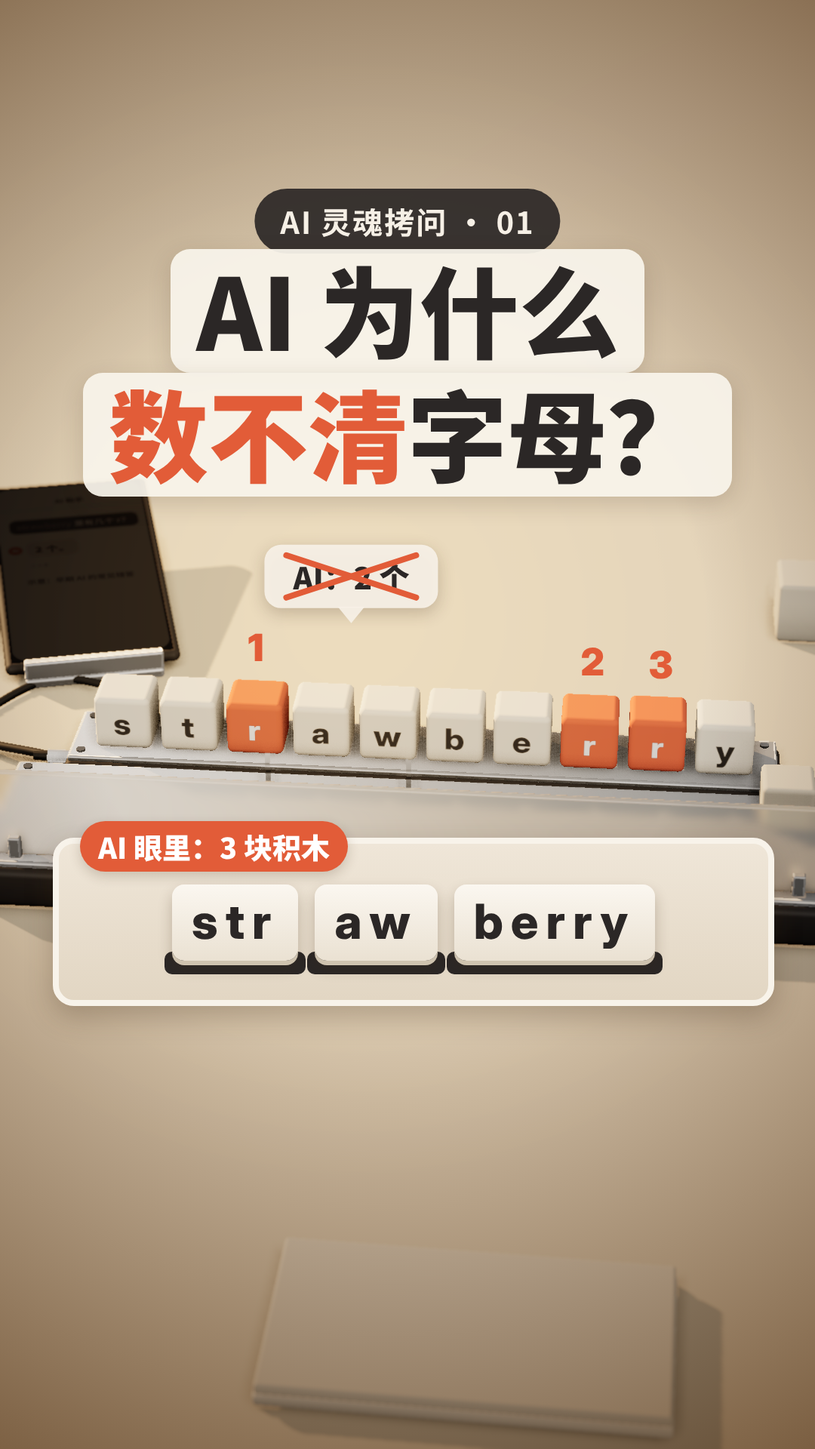
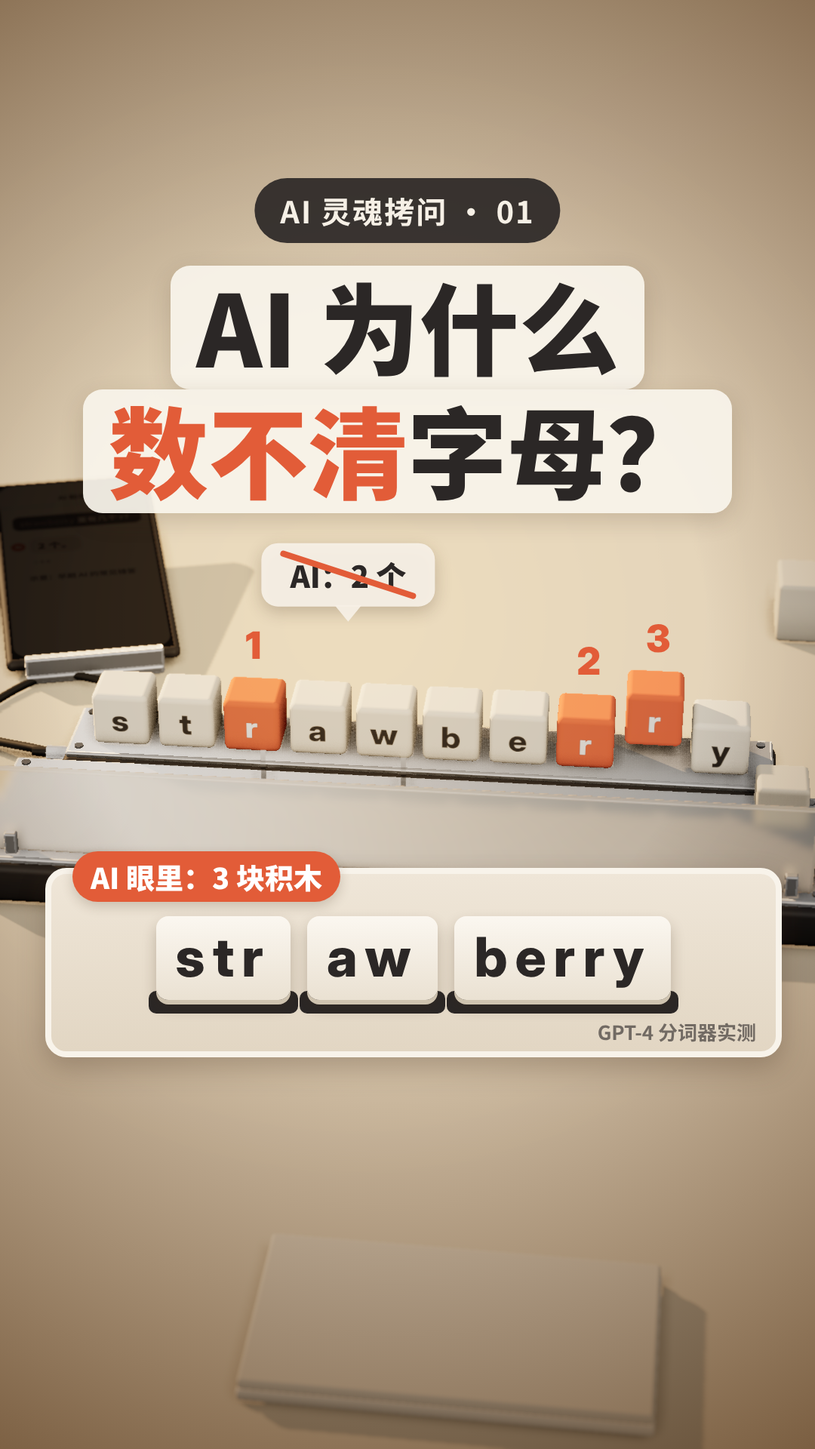
EP.01 节点③审核修改：publish.md（搜索词覆盖、AI 生成说明、英文句子、封面描述、置顶评论、去 #ChatGPT）；封面换 6.8 秒主图、留白和出处小字；FACTS 来源与实测记录；DECISIONS 记先不配音直接出整片
Claude-Session: https://claude.ai/code/session_01WiaSR2oHUjSk8c5HhMok97

diff --git a/episodes/ai-linghun/01-strawberry/FACTS.md b/episodes/ai-linghun/01-strawberry/FACTS.md
@@ -17,18 +17,18 @@
 | 7 | 「这种积木，行业里叫 Token」 | Token 是分词器切出的最小单位，模型输入输出都以 Token 为单位 | 〔摘〕tiktoken README |
 | 8 | 积木 = Token | 类比。Token 不一定对应完整的字或词，可以是半个词、一个字节碎片；画面小字「积木不按词语切」（「今天天气真好」里的「天天」） | 〔类比〕 |
 | 8a | 「AI 说话也是一块一块往外接的」 | 自回归语言模型每次预测下一个 Token，再把它接到输入后面继续预测。Brown et al. 2020，Language Models are Few-Shot Learners，arXiv:2005.14165，摘要：「GPT-3, an autoregressive language model with 175 billion parameters」 | 〔摘〕 |
-| 8b | 「读遍了整座图书馆的接龙高手」 | 类比。训练数据量的量级：Llama 3 预训练语料约 15 万亿个 Token（arXiv:2407.21783 第 1 节「about 15T multilingual tokens」；405B 版本用了 15.6T，**发布前对照原文核实所在小节**） | 〔类比〕 |
+| 8b | 「读遍了整座图书馆的接龙高手」 | 类比。训练数据量的量级：Llama 3 预训练语料约 15 万亿个 Token（arXiv:2407.21783 第 1 节「about 15T multilingual tokens」，在第 1 节 Introduction；405B 版本用了 15.6T，见正文另一处。2026-11-22 审核复核） | 〔类比〕 |
 | 8c | 电话里听名字、问笔画 | 类比，说的是「模型认得这块积木，却看不到它由哪几个字母组成」。不成立的地方：模型能在训练中间接学到很多积木的拼写（见 #18），所以并非完全不知道；人听名字问笔画是真的不知道 | 〔类比〕 |
 | 8d | 「因为太慢、太贵」 | 英文平均每个 Token 约 4 个字节（tiktoken README：「each token corresponds to about 4 bytes」），按字母读，序列会长好几倍；每多一块就多一次完整的前向计算（#10） | 〔摘〕 |
 
 ## 计算
 | # | 片中说法 | 依据 | 等级 |
 |---|---|---|---|
-| 9 | 每块积木会被换成「几千个数字」 | 每个 Token 先变成一个向量，长度等于模型的隐藏维度。例：Llama 3 8B 为 4096、70B 为 8192、405B 为 16384（Llama 3 论文 arXiv:2407.21783，表 3）；GPT-3 175B 为 12288（arXiv:2005.14165，表 2.1）。千亿参数级的模型一般在 8k–12k。「几千个」偏保守（最大的模型过万），但不算错，且字幕已定稿；用户看过草稿后未提异议，保留「几千个」。画面上滚动的数是随机的，已标「数值为示意」 | 〔摘〕 |
+| 9 | 每块积木会被换成「几千个数字」 | 每个 Token 先变成一个向量，长度等于模型的隐藏维度。例：Llama 3 8B 为 4096、70B 为 8192、405B 为 16384（Llama 3 论文 arXiv:2407.21783，表 3）；GPT-3 175B 为 12288（arXiv:2005.14165，表 2.1）。千亿参数级的模型一般在 8k–12k。「几千个」偏保守（最大的模型过万），但不算错，且字幕已定稿；保留「几千个」；措辞 2026-11-22 交付时请用户确认。画面上滚动的数是随机的，已标「数值为示意」 | 〔摘〕 |
 | 10 | 每读一块积木，大约要算「2 × 参数量」次 | 前向计算每个 Token 约 2N 次浮点运算（N = 参数量，一次乘一次加）。Kaplan et al. 2020，Scaling Laws for Neural Language Models，arXiv:2001.08361，2.1 节。假设：稠密模型；不计注意力里随上下文长度增长的那部分；MoE 模型每次只激活一部分参数，运算会少 | 〔摘〕 |
 | 11 | 千亿参数的大模型，每块约 2000 亿次 | 2 × 1000 亿 = 2000 亿 | 〔估〕 |
 | 12 | 一句话约 20 块，背后是几万亿次（画面写「≈ 4 万亿次」） | 假设一句话 20 个 Token：20 × 2000 亿 = 4 万亿。只算「读进这句话」，不算回答（回答的每个 Token 还要再各算一次） | 〔估〕 |
-| 13 | 芯片里「几十万个小工人」（底稿是「成千上万个」；改为「几十万个」后用户看过草稿未提异议） | 小工人 ≈ 张量核（Tensor Core）里的乘加单元，画面已标「示意：1 个小工人 ≈ 1 个乘加单元」。按 NVIDIA H100 白皮书，H100 SXM5 稠密 FP16 / BF16 张量算力 989.4 TFLOPS；989.4 万亿 ÷ 2（一次乘加 = 2 次运算）÷ 1.83 GHz ≈ 27 万次乘加 / 时钟（= 132 个 SM × 每 SM 每时钟 2048 次）。只数 Tensor Core（528 个）配不上「成千上万」；CUDA 核心（16,896 个）数量对得上，但大模型的矩阵乘加主要不在 CUDA 核心上做。2026-11-22 复核：989.4 TFLOPS（稠密 FP16）多方一致（[NVIDIA 开发者论坛](https://forums.developer.nvidia.com/t/how-to-calculate-the-tensor-core-fp16-performance-of-h100/244727/2)、[Glenn Lockwood H100 笔记](https://glennklockwood.com/garden/processors/H100)）；1.83 GHz 没有找到官方单独写明的数（TechPowerUp 列的最高加速是 1980 MHz），只是与 989.4 TFLOPS 自洽的反推值。「约 27 万次乘加 / 时钟」本身不靠时钟：132 SM × 每 SM 每时钟 2048 次稠密 FP16 乘加（论坛对白皮书的解读）= 270,336，所以「几十万个小工人」成立。措辞「几十万个」用户看过 v2 / v3 草稿后未提异议（「其他暂时没问题」），按已接受处理 | 〔摘〕〔估〕 |
+| 13 | 芯片里「几十万个小工人」（底稿是「成千上万个」，改为「几十万个」；措辞 2026-11-22 交付时请用户确认） | 小工人 ≈ 张量核（Tensor Core）里的乘加单元，画面已标「示意：1 个小工人 ≈ 1 个乘加单元」。按 NVIDIA H100 白皮书，H100 SXM5 稠密 FP16 / BF16 张量算力 989.4 TFLOPS；989.4 万亿 ÷ 2（一次乘加 = 2 次运算）÷ 1.83 GHz ≈ 27 万次乘加 / 时钟（= 132 个 SM × 每 SM 每时钟 2048 次）。只数 Tensor Core（528 个）配不上「成千上万」；CUDA 核心（16,896 个）数量对得上，但大模型的矩阵乘加主要不在 CUDA 核心上做。2026-11-22 复核：989.4 TFLOPS（稠密 FP16）见 NVIDIA H100 Tensor Core GPU Architecture 白皮书（GTC22）规格表，另见（[NVIDIA 开发者论坛](https://forums.developer.nvidia.com/t/how-to-calculate-the-tensor-core-fp16-performance-of-h100/244727/2)、[Glenn Lockwood H100 笔记](https://glennklockwood.com/garden/processors/H100)）；1.83 GHz 没有找到官方单独写明的数（TechPowerUp 列的最高加速是 1980 MHz），只是与 989.4 TFLOPS 自洽的反推值。「约 27 万次乘加 / 时钟」本身不靠时钟：A100 白皮书写每个 Tensor Core 每时钟 256 次 FP16 乘加，每 SM 4 个 = 1024；H100 白皮书写同频下每 SM 是 A100 的 2 倍 = 2048；132 SM × 2048 = 270,336，所以「几十万个小工人」成立。措辞「几十万个」交付时请用户确认 | 〔摘〕〔估〕 |
 | 14 | 小工人「只做两件事：乘法和加法」 | 类比。大模型推理的主体是矩阵乘加（乘加融合 FMA），GPU 也做其他运算（激活函数、归一化等），片中不展开 | 〔类比〕 |
 | 15 | 「这些小工人住的地方，就是 GPU」；GPU 封装画面 | 示意图，整段标「示意：云端机房里的 GPU 芯片」。画法参照 H100 这一类数据中心 GPU：俯视的基板 + 中介层 + 一块大 die + 两侧共 6 颗 HBM 堆叠（H100 SXM5 有 6 个 HBM 位置，其中 5 个启用），不画四边引脚。不是某款真实 GPU 的版图。HBM 和 die 之间的光点表示数据进出，示意 | 〔类比〕 |
 | 15a | ~~深度计「对话 → 模型 → 芯片」~~ | **已删除**（用户 2026-11-21：进度条不要了） | — |
@@ -36,16 +36,16 @@
 ## 现象
 | # | 片中说法 | 依据 | 等级 |
 |---|---|---|---|
-| 16 | AI 曾经很自信地答「2 个」 | 2024 年广为流传的测试（多款聊天机器人答 2）。来源：[Inc.（2024-08）How Many R’s in ‘Strawberry’? This AI Doesn’t Know](https://www.inc.com/kit-eaton/how-many-rs-in-strawberry-this-ai-cant-tell-you.html)：作者测试时 ChatGPT 坚持只有 2 个 r；[OpenAI 社区论坛（2024-06）](https://community.openai.com/t/incorrect-count-of-r-characters-in-the-word-strawberry/829618) 用户报告同样的错。截图由用户发布前自行补存（可选）；片中手机对话是示意（已标「示意：早期 AI 的常见错答」），不指认具体产品 | 〔摘〕 |
-| 17 | 如今多数 AI 已能答对 | 2026-11-22 实测：OpenAI 模型（通过 Codex，模型 gpt-6.2-sol）中、英文各问一次，都答 3；Claude（本会话）答 3。背景：2024-09 起 o1 等推理模型被报道基本能答对但不稳定（[Futurism](https://futurism.com/openai-strawberry-o1-mistakes)），2025-12 仍有报道称 GPT-5.2 偶尔答 2（[Dataconomy](https://dataconomy.com/2025/12/15/gpt-5-2-still-counts-two-rs-in-strawberry)）。所以台词用「很多 AI 已经能答对」而不是「都能」。国内产品（豆包、DeepSeek、Kimi 等）的截图由用户发布前手动补存（可选，不用自动化登录） | 〔实测〕〔摘〕 |
-| 18 | 「AI 根本“看不见”字母」（底稿原句的引号已恢复） | 模型的输入是 Token 编号。tiktoken README（「What is BPE anyway?」一节）：「Language models don't see text like you and I, instead they see a sequence of numbers (known as tokens).」引号表示是口语化的说法：字母信息能在训练中被间接学到（Kaushal & Mahowald 2022，What do tokens know about their characters and how do they know it?，NAACL），这也是现在很多新 AI 能答对的原因之一；有的模型还会先把单词逐个字母拆开再数。后半句出处：[Marco-o1（arXiv:2411.14405）](https://arxiv.org/abs/2411.14405) 图 1 用的就是「strawberry 里有几个 r」这个例子来展示推理模型逐步推理；逐字母拆开再数的过程见该模型的公开讨论（[Hugging Face 讨论区](https://huggingface.co/ATH-MaaS/Marco-o1/discussions/16)，用户转述，作旁证）。这一句只在 FACTS 里，片中没有 | 〔摘〕 |
+| 16 | AI 曾经很自信地答「2 个」 | 2024 年广为流传的测试（多款聊天机器人答 2）。来源：[Inc.（2024-08）How Many R’s in ‘Strawberry’? This AI Doesn’t Know](https://www.inc.com/kit-eaton/how-many-rs-in-strawberry-this-ai-cant-tell-you.html)：作者测试时 ChatGPT 坚持只有 2 个 r；[OpenAI 社区论坛（2024-06）](https://community.openai.com/t/incorrect-count-of-r-characters-in-the-word-strawberry/829618) 用户报告同样的错；TechCrunch（2024-08-27）「Why AI can’t spell ‘strawberry’」报道多款模型（含 GPT-4o、Claude）答 2，支撑「多款」（审核用搜索核到，原文未打开）。截图由用户发布前自行补存（可选）；片中手机对话是示意（已标「示意：早期 AI 的常见错答」），不指认具体产品 | 〔摘〕 |
+| 17 | 如今很多 AI 已经能答对 | 2026-11-22 实测：OpenAI 模型（通过 Codex 新会话，模型 gpt-6.2-sol，推理强度 none）中、英文各问一次，都答 3；提问原文和回答见 `facts/strawberry-test-2026-11-22.md`。背景：2024-09 起 o1 等推理模型被报道基本能答对但不稳定（[Futurism](https://futurism.com/openai-strawberry-o1-mistakes)），2025-12 仍有报道称 GPT-5.2 偶尔答 2（[Dataconomy](https://dataconomy.com/2025/12/15/gpt-5-2-still-counts-two-rs-in-strawberry)）。所以台词用「很多 AI 已经能答对」而不是「都能」。国内产品（豆包、DeepSeek、Kimi 等）的截图由用户发布前手动补存（可选，不用自动化登录） | 〔测〕〔摘〕 |
+| 18 | 「AI 根本“看不见”字母」（底稿原句的引号已恢复） | 模型的输入是 Token 编号。tiktoken README（「What is BPE anyway?」一节）：「Language models don't see text like you and I, instead they see a sequence of numbers (known as tokens).」引号表示是口语化的说法：字母信息能在训练中被间接学到（Kaushal & Mahowald 2022，What do tokens know about their characters and how do they know it?，NAACL），这也是现在很多新 AI 能答对的原因之一；有的模型还会先把单词逐个字母拆开再数。后半句出处：[Marco-o1（arXiv:2411.14405）](https://arxiv.org/abs/2411.14405) 图 1 用的就是「strawberry 里有几个 r」这个例子来展示推理模型逐步推理；模型官方页：[AIDC-AI/Marco-o1](https://huggingface.co/AIDC-AI/Marco-o1)。这一句只在 FACTS 里，片中没有 | 〔摘〕 |
 
 ## v4 3D 样片（前 31 秒）新加的画面
 | # | 画面 | 依据 / 说明 | 等级 |
 |---|---|---|---|
 | 19 | 两把刀落下，把 strawberry 切成 str / aw / berry，标「分词器（示意）」 | 切分位置同 #1（`cl100k_base` 实测）。刀是示意：真实的分词器（BPE）是按词表里的合并规则把字节组合成 Token，不是一刀一刀切 | 〔类比〕〔测〕 |
 | 20 | 积木翻到背面露出 #496 #675 #15717；合成一块后是 #73700；进出「AI 的视角」框 | 编号同 #1、#2。「积木背面是编号」是示意：模型的输入是 Token 编号（tiktoken README：「they see a sequence of numbers (known as tokens)」，见 #18），编号再被换成向量（#9） | 〔类比〕〔摘〕 |
-| 21 | 「如今很多 AI 已经能答对」（v3 句）：打叉的「AI：2 个」气泡原地翻面成「如今：3 个 ✓」（草稿 v2 起只有这一个气泡；v1 是弹出三个「AI：3 个 ✓」） | 示意，不指认具体产品；事实见 #17（2026-11-22 已实测） | 〔实测〕 |
+| 21 | 「如今很多 AI 已经能答对」（v3 句）：打叉的「AI：2 个」气泡原地翻面成「如今：3 个 ✓」（草稿 v2 起只有这一个气泡；v1 是弹出三个「AI：3 个 ✓」） | 示意，不指认具体产品；事实见 #17（2026-11-22 已实测） | 〔测〕 |
 | 22 | X 光扫过字母（草稿 v2 起，约 9.5–10.5 秒）：字母下面亮起红色切口线，切口在 str｜aw｜berry 之间（不写字；v1 是字母方块变透明、露出三块彩色积木） | 示意：预告后面「切成积木」；切口位置同 #1 | 〔类比〕 |
 | 23 | v5：分词器是一台带磨砂玻璃的机器，方块在玻璃后面被两道光刃切开；三块落到三个底座上，玻璃屏和编号标签显示 #496 #675 #15717；放进句子后，分词器重新切一次，直接吐出一整块（#73700）；画面上的句子显示成 8 块（How / many / r / 's / are / in / strawberry / ?） | 切分位置和编号同 #1、#2；8 块的切法同 #2（`cl100k_base` 实测）。机器、光刃、玻璃屏、底座都是示意（画面标「分词器（示意）」「AI 的视角（示意）」「编号：GPT-4 分词器实测」「这句切成 8 块，“ strawberry”（带空格）是 1 块 · 实测」）。句子里的 " strawberry" 是分词器直接切出的 1 块，画面上用「重新切一次」表现，不画成三块拼起来（审核 v5 第一轮意见） | 〔类比〕〔测〕 |
 
@@ -58,7 +58,7 @@
 | 27 | 「你好」进小分词器还是一块；「龘」被切成两块，分别标 E9 BE / 98，标「按编码字节切成 2 块，不是按偏旁（示意）」 | 同 #4、#5（`o200k_base`：你好 = 1 块；龘 = UTF-8 字节 E9 BE \| 98 两块）。画面用的是 GPT-4o 的切法 | 〔测〕 |
 | 28 | 两列排队进读取器：15 个字母 vs 3 块（I / like / strawberry），每格大小相同，长度正好 5 倍；每读一块掉一枚珊瑚色硬币，「15 笔 / 3 笔」，「每读一块，记一笔账（示意）」 | 15 和 3 同 #6；硬币是类比「每多一块就多算一次」（#8d、#10），不是真实费用 | 〔测〕〔类比〕 |
 | 29 | strawberry 积木进转换器，吐出一条立着的纸带，印着一串数字，标「几千个数字，排成一行」「数值为示意」 | 同 #9（向量长度几千到上万，数值随机示意） | 〔摘〕〔类比〕 |
-| 30 | GPU 封装：基板、中介层、一块大芯片、两侧共 6 颗 HBM 堆叠、边缘小电容；芯片表面 10×10 个小工人敲出 × 和 +；计数屏 0 → ≈ 2000 亿次，再到「一句话 ≈ 20 块」「≈ 4 万亿次」；「GPU」「示意：云端机房里的 GPU 芯片」 | 同 #10–#15。画面上 100 个小工人只是示意（实际按 #13 约 27 万次乘加 / 时钟）；「几十万个」的措辞见 #13（已接受） | 〔摘〕〔估〕〔类比〕 |
+| 30 | GPU 封装：基板、中介层、一块大芯片、两侧共 6 颗 HBM 堆叠、边缘小电容；芯片表面 10×10 个小工人敲出 × 和 +；计数屏 0 → ≈ 2000 亿次，再到「一句话 ≈ 20 块」「≈ 4 万亿次」；「GPU」「示意：云端机房里的 GPU 芯片」 | 同 #10–#15。画面上 100 个小工人只是示意（实际按 #13 约 27 万次乘加 / 时钟）；「几十万个」的措辞见 #13（交付时请用户确认） | 〔摘〕〔估〕〔类比〕 |
 | 31 | 「我们看到：一个一个字母」（10 个字母方块，圈出 s）vs「AI 看到：一整块积木（编号 #73700）」（圈出整块） | 编号同 #2 | 〔测〕〔类比〕 |
 | 32 | AI 机器吐出「当然 / 知道 / ！/ 这段 / 情节 / 出自」，最后一块是抖动的珊瑚色「？」，「自信 100%」，标「示意」 | 示意下期主题（幻觉），不指认任何产品；「自信 100%」是比喻，不是模型输出的真实概率 | 〔类比〕 |
 

diff --git a/episodes/ai-linghun/01-strawberry/publish.md b/episodes/ai-linghun/01-strawberry/publish.md
@@ -2,18 +2,18 @@
 
 「AI 灵魂拷问」第 1 集。代码块里的文字可以直接复制粘贴。
 
-**「内容由 AI 生成」：建议两个平台都勾选**。本集没有配音；画面是代码做的动画；**配乐是 AI 生成的**（开源模型 ACE-Step 1.5）。现有规则只要求 AI 配音的片子必须勾选，没写到 AI 配乐，所以最后由你定。
+**「内容由 AI 生成」：建议两个平台都勾选**。本集只有配音没有用 AI（没有配音）；其余都有 AI 参与：台词和字幕由 AI（Claude）起草、你审定；动画和封面的代码由 AI 编写、生成；**配乐由 AI 生成**（开源模型 ACE-Step 1.5）；音效是代码合成的。现有规则只写了「用 AI 配音的片子必须勾选」，没覆盖这些情况，所以最后由你定。
 
 ## 抖音
 
 - 视频：`ai01-strawberry.mp4`（1080×1920，99.3 秒，-14 LUFS；随消息发给你，mp4 不进仓库，源文件在 `film/out/`）
-- 封面：`cover/cover-douyin.png`（1080×1920）：大字「AI 为什么 / 数不清字母？」；主图是 strawberry 十个字母，三个 r 变红并标 1 2 3，旁边「AI：2 个」被划掉；下方卡片「AI 眼里：3 块积木」，是三块积木和它们的编号。
+- 封面：`cover/cover-douyin.png`（1080×1920）：大字「AI 为什么 / 数不清字母？」；主图是片中 6.8 秒：strawberry 十个字母，三个 r 变红并标 1 2 3，旁边「AI：2 个」被划掉；下方卡片「AI 眼里：3 块积木」：str / aw / berry 三块积木，角上小字「GPT-4 分词器实测」。
 
 **描述**
 
 ```text
-问 AI：strawberry 里有几个 r？它曾经很自信地答：2 个。不是它笨——AI 读文字之前，会先把文字切成一块块“积木”（Token），strawberry 在它眼里可能只是 str、aw、berry 三块，它从没“看见”过里面的字母。
-#AI #人工智能 #大模型 #Token #分词 #ChatGPT #AI原理 #科普 #涨知识 #AI灵魂拷问
+AI 根本“看不见”字母。问它 strawberry 里有几个 r，它曾经很自信地答：2 个。不是它笨：AI 读文字之前，会先把文字切成一块块“积木”（Token，这一步叫分词），strawberry 在它眼里可能只是 str、aw、berry 三块。为什么不一个字母一个字母地读？太慢、太贵，每多读一块都要 GPU 多算一大笔账。
+#AI #人工智能 #大模型 #Token #分词 #GPU #算力 #AI原理 #科普 #AI灵魂拷问
 ```
 
 ## 小红书
@@ -30,7 +30,7 @@ AI为什么数不清字母？Token是什么
 备选标题
 
 ```text
-AI数不清strawberry里的r？
+AI为啥数不清r？讲透Token
 ```
 
 **正文**
@@ -38,10 +38,10 @@ AI数不清strawberry里的r？
 ```text
 问 AI：strawberry 里有几个 r？它曾经很自信地说：2 个。正确答案是 3 个。如今很多 AI 已经能答对，可它当初为什么会错？
 
-① 我们读单词，是一个字母一个字母地看；AI 读文字之前，会先把它切成一块一块的“积木”，行业里叫 Token。
-② strawberry 在它眼里，可能是 str、aw、berry 三块；放进句子里，整个词甚至只是一块。它认识这个词，却从没“看见”过里面的字母。
+① 我们读单词，是一个字母一个字母地看；AI 读文字之前，会先把它切成一块一块的“积木”，行业里叫 Token，这一步叫分词。
+② strawberry 在它眼里，可能是 str、aw、berry 三块；放进英文句子里，整个词甚至只是一块。它认识这个词，却从没“看见”过里面的字母。
 ③ 就像你在电话里听过一个人的名字，对方突然问：我的名字一共几笔？你认识这个名字，却没见过它怎么写。中文也一样：常见的词可能整个就是一块，生僻字反而会被拆成碎块。
-④ 那为什么不一个字母一个字母地读？因为太慢、太贵。按字母读，一句话要长好几倍；AI 每多读一块，就要多算一大笔账：按千亿参数的模型估算，每读一块大约要算两千亿次，随口问一句就是几万亿次运算，靠 GPU 里几十万个乘加单元同时干活。
+④ 那为什么不一个字母一个字母地读？因为太慢、太贵。按字母读，一句话要长好几倍；AI 每多读一块，就要多算一大笔账：按千亿参数的模型估算，每读一块大约要算两千亿次，随口问一句就是几万亿次运算，靠 GPU 里几十万个乘加单元同时干活，这就是常说的算力。
 
 所以 AI 不是笨，是它看世界的“最小单位”和我们不一样。
 
@@ -49,13 +49,13 @@ AI数不清strawberry里的r？
 
 画面说明：积木、小工人、数字纸带都是示意；strawberry 和句子的切法、编号用 GPT-4 分词器实测，中文的切法用 GPT-4o 分词器实测；运算次数是估算。
 
-#AI #人工智能 #大模型 #Token #分词 #ChatGPT #AI原理 #AI冷知识 #科普 #涨知识
+#AI #人工智能 #大模型 #Token #分词 #GPU #算力 #AI原理 #科普 #AI灵魂拷问
 ```
 
 ## 置顶评论（两个平台通用）
 
 ```text
-你问过 AI 哪些让它“翻车”的问题？评论区告诉我，下一期就拿它来拷问 AI。
+你问过 AI 哪些让它“翻车”的问题？评论区告诉我，挑出来排进后面几期，一个个拷问它。
 ```
 
 可选：作者再发一条（要不要换成置顶由你定）
@@ -65,8 +65,8 @@ AI数不清strawberry里的r？
 ```
 
 ## 备注
-- 搜索关键词：Token、分词（tokenizer）、大模型原理、strawberry 有几个 r、GPU 算力。抖音描述和话题覆盖 Token、分词、大模型、AI 原理；小红书标题有「AI」「Token」，正文和话题覆盖全部五个词。
-- 不评哪家产品好坏，不谈股票。片中手机对话是示意（「示意：早期 AI 的常见错答」），不指认具体产品；ChatGPT 只出现在话题标签里，作为搜索词。
+- 搜索关键词（5 个）：Token、分词、大模型原理（话题 #大模型 #AI原理）、strawberry 有几个 r、GPU 算力。抖音描述和话题五个全覆盖；小红书标题有「AI」「Token」，正文和话题五个全覆盖。
+- 不评哪家产品好坏，不谈股票。片中手机对话是示意（「示意：早期 AI 的常见错答」），不指认具体产品，所以文案和话题也不点名（去掉了 #ChatGPT；你想加回去也可以，事实有依据，见 FACTS #16）。
 - 依据（`FACTS.md`）：
   - str / aw / berry 和编号 #496 #675 #15717、句中整词 1 块 #73700：#1、#2；
   - 中文「你好」1 块、「龘」按编码字节切成 2 块：#3–#5；

diff --git a/DECISIONS.md b/DECISIONS.md
@@ -115,6 +115,7 @@
 - 2026-11-22：**配乐方向定为 A（暖木琴 + 电钢琴）**。第一轮试听 A / B（拨弦钟琴）/ C（极简电子）后，用户：「A不错，麻烦再给三个不同的选择」。第二轮在 A 的风格里做了三个变体：A1 原配方换旋律（F 大调）、A2 原声吉他（D 大调）、A3 爵士电钢琴（B♭ 大调），都是 100 BPM，按同样的分段对齐。用户听后：「选择A1」→ 本集配乐用 A1（`music/out/r2/A1_same_recipe_s33_final.wav`，`music/prep.py` 对齐），接着加音效、混音。 音效用代码合成（`music/sfx.py`，F 大调），时间点由画面代码登记（`film/index.html` 的 `cue()`，`render.mjs --cues` 导出 `music/cues.json`）；改时间轴后要重导 cues 并重跑 prep / sfx。**待用户定**：本集没有 AI 配音，但配乐是 AI（ACE-Step）生成的，发布时是否勾选「内容由 AI 生成」（CLAUDE.md 只写了 AI 配音要勾；监督建议偏向勾选）。
 - 2026-11-22：**EP.01 用 three.js 版，不做 Blender 整片**。试渲 8 个关键帧对比后（Blender 套上片子的调色、调亮环境反射后和 three.js 很接近，手机尺寸差别小；整片还需约 4 小时把各站逐帧动作搬进 Blender），用户：「这集先用 three.js 版」。Blender 流程（`render.mjs --export-stills`、`blender/build.py`、`blender/pod/`）留给以后需要高质感特写的集。
 - 2026-11-22：**Fish Audio：API 额度和订阅额度是分开的**。本环境保存了用户的 Fish key（api.fish.audio 网络密钥）；账号是 plus 订阅（订阅额度只能在网页 / App 用），API 额度为 0，所以 API 调用付费模型 s2.1-pro 返回 402，只能用免费模型 s2.1-pro-free。要用 s2.1-pro 需在 fish.audio/app/developers/billing 充 API 额度。用户想试更自然的声线：已用免费模型出 6 个社区声线样音 + 现用「科普」对照（`voice/samples/samples.json`），排除了模仿真人的声线。
+- 2026-11-22：**EP.01 先不配音，直接出整片和封面**。用户听了两批声线样音（第二批只要男声、偏科普科学质感：「只要男生的，偏科普科学质感一类的」）后说：「目前这个节奏加入声音会有点太赶」「暂时先不用配音了，直接出整片和封面配图吧」。这是用户本人对「交付顺序」的放行：视频（带 A1 配乐和音效的 v3）视为确认，随即出封面、小红书全屏版和 `publish.md`；审核、监督、观众三关照走。以后若加配音：先放慢节奏（不能再压 12–24 秒），只要男声科普质感，声线从 `voice/samples2/` 里挑，正式生成要先给 Fish 充 API 额度。
 
 ## 2026-11-07 · 光互连 02 抖音拆解版第 1 条：纯动画对比版（v2）
 - 用户反馈：不靠旁白能看懂，但「跟谁比」一开始没讲清楚。改成上下两种送法从第一帧并排比：上「几十条路一起送」，下「排成一队送」；第一帧两部手机收到同一张照片，一张错位 ✗、一张完好 ✓。

diff --git a/episodes/ai-linghun/01-strawberry/facts/strawberry-test-2026-11-22.md b/episodes/ai-linghun/01-strawberry/facts/strawberry-test-2026-11-22.md
@@ -1,0 +1,23 @@
+# 「strawberry 里有几个 r」实测记录（2026-11-22，FACTS #17）
+
+工具：`codex exec --sandbox read-only`（用户的 ChatGPT 账号）。新会话，不带任何上下文。
+
+- 模型：gpt-6.2-sol；推理强度：none
+
+## 中文
+
+```text
+只回答一个数字：英文单词 strawberry 里有几个字母 r？
+```
+
+回答：`3`
+
+## English
+
+```text
+How many times does the letter r appear in the word strawberry? Answer with a single number.
+```
+
+回答：`3`
+
+两次都答 3，而且是在不开推理（reasoning effort: none）的情况下答对的。
